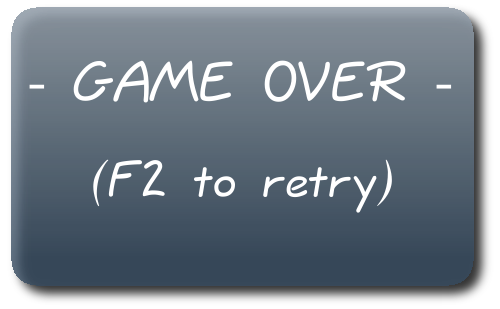
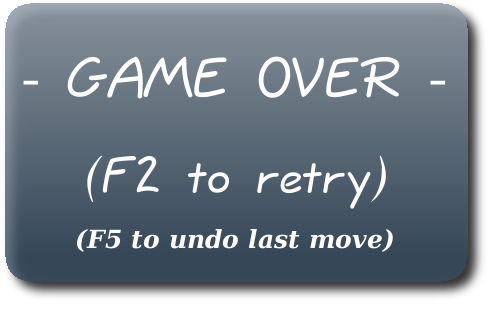
Adding : - fps limit to 60 by default - bonus_score * 0.5 when undoing - you can undo when game is over

diff --git a/software/config.py b/software/config.py
@@ -78,7 +78,7 @@ class App:
                 self.window.fps_frame.add(self.window.fps_box)
                 self.window.fps_box.set_border_width(10)
                 self.window.txt_fps = gtk.Entry()
-                self.window.txt_fps.set_text("200")
+                self.window.txt_fps.set_text("60")
                 self.window.fps_box.pack_start(self.window.txt_fps, fill=False, expand=False)
 
                 self.window.options_frame = gtk.Frame("Options")

diff --git a/software/src/states/GameOverState.cpp b/software/src/states/GameOverState.cpp
@@ -53,7 +53,7 @@ void GameOverState::draw()
 
 void GameOverState::update()
 {
-
+  
 }
 
 void GameOverState::events()
@@ -66,6 +66,13 @@ void GameOverState::events()
     resources -> engine -> set_state_ingame();
     resources -> player1.new_game();
   }
+
+  if(resources -> key.undo -> get())
+  {
+    resources -> engine -> set_state_ingame();
+    resources -> player1.undo();
+  }
+
 }
 
 bool GameOverState::front_layer_behind()

diff --git a/software/src/Board.cpp b/software/src/Board.cpp
@@ -487,6 +487,8 @@ void Board::undo(CL_Sprite **pieces_normal, CL_Sprite** pieces_appearing, CL_Spr
 
   bonus_score -= undo_bonus_score;
 
+  bonus_score = (u_int)(((double)bonus_score) * 0.5);
+
   unlocked_pieces = undo_unlocked_pieces;
   visible_pieces =  undo_visible_pieces;
 

diff --git a/software/src/Preferences.cpp b/software/src/Preferences.cpp
@@ -241,7 +241,7 @@ void Preferences::set_default()
 {
   revision = OPTIONS_FILE_REVISION;
   render_opengl = false;
-  maxfps = 250;
+  maxfps = 60;
   sound_level = 10;
   music_level = 10;
   fullscreen = false;
